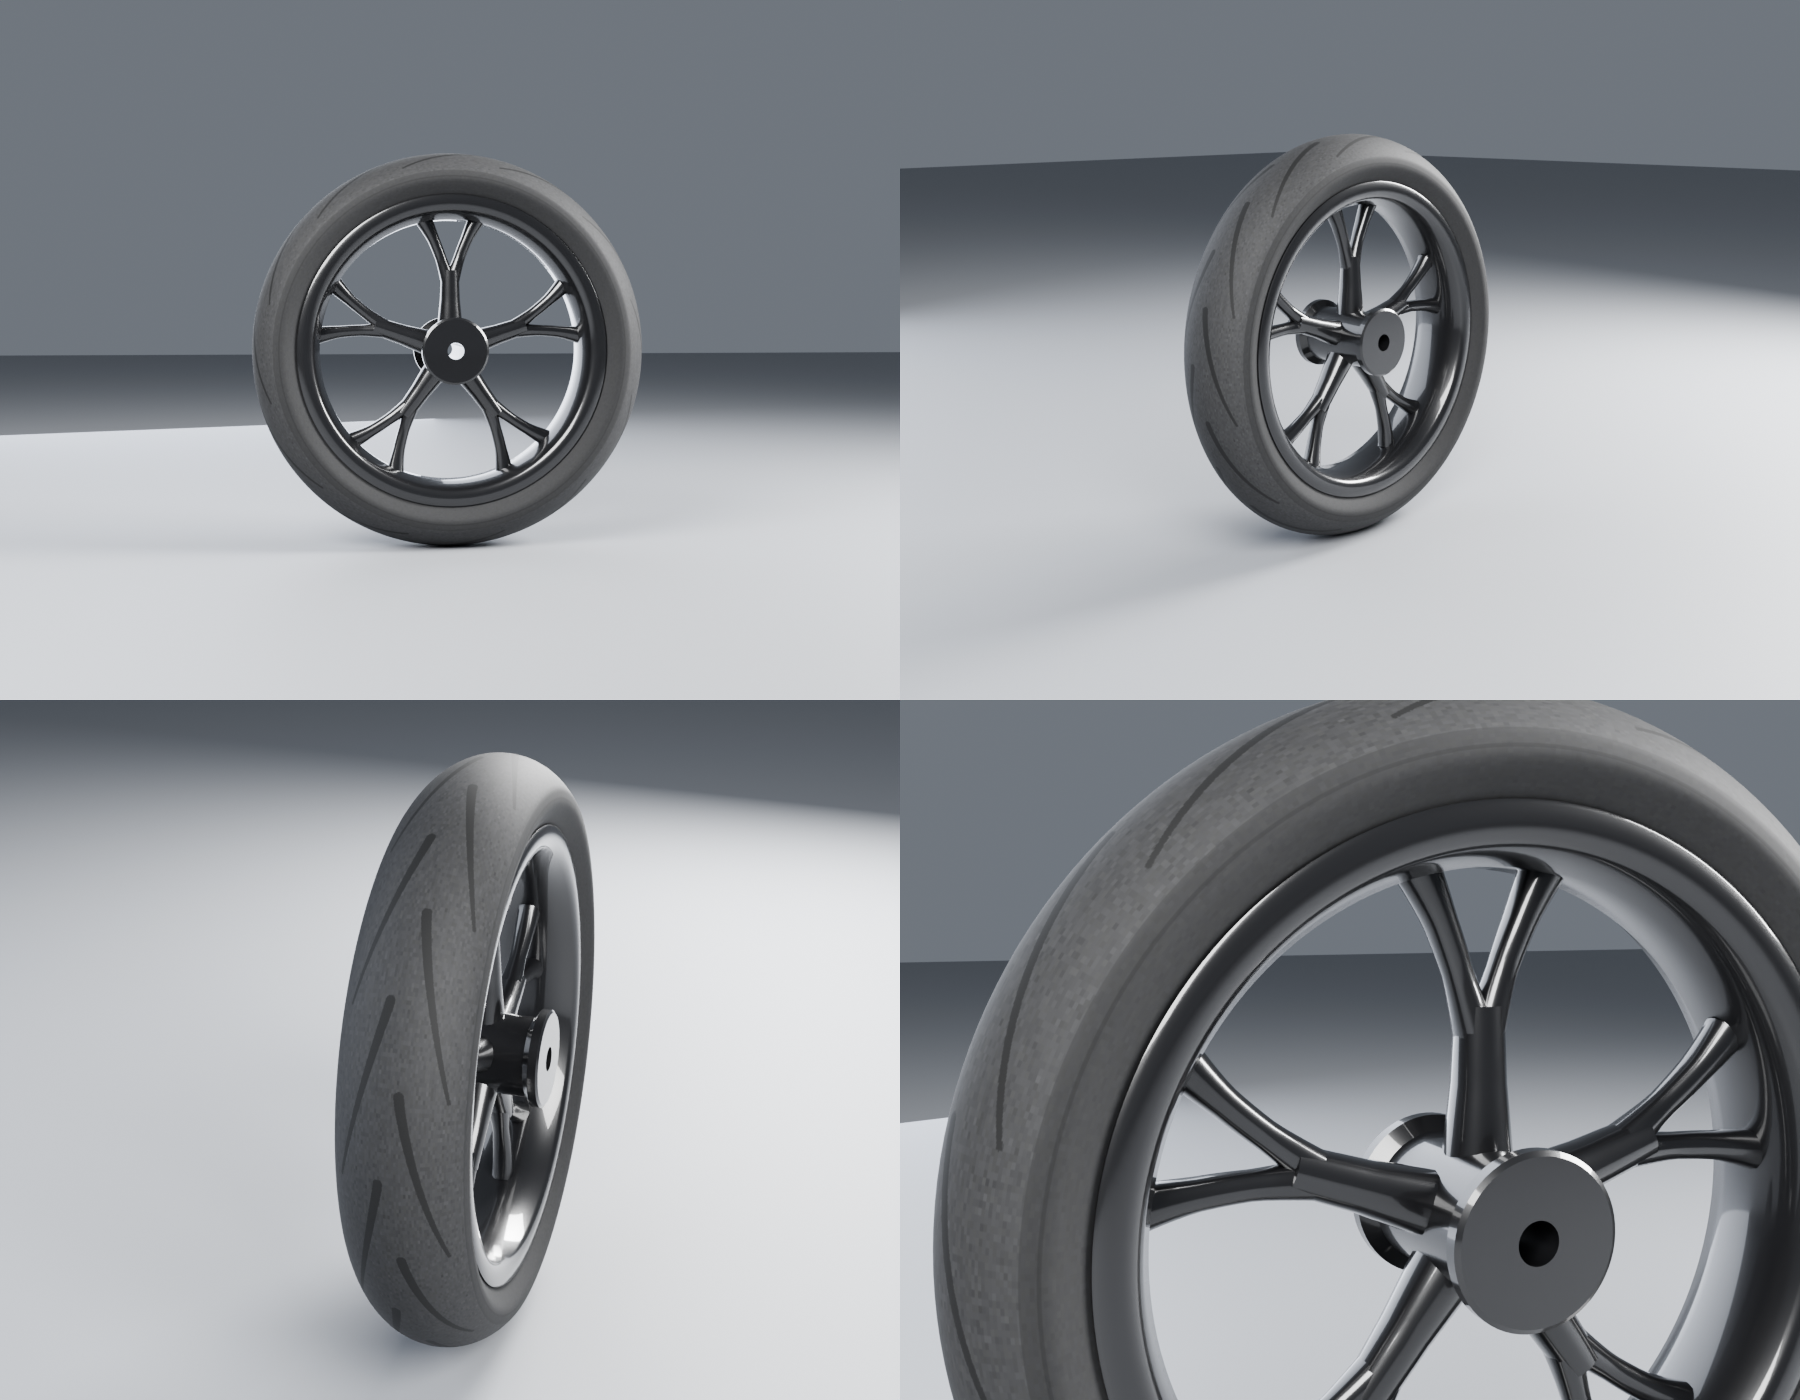
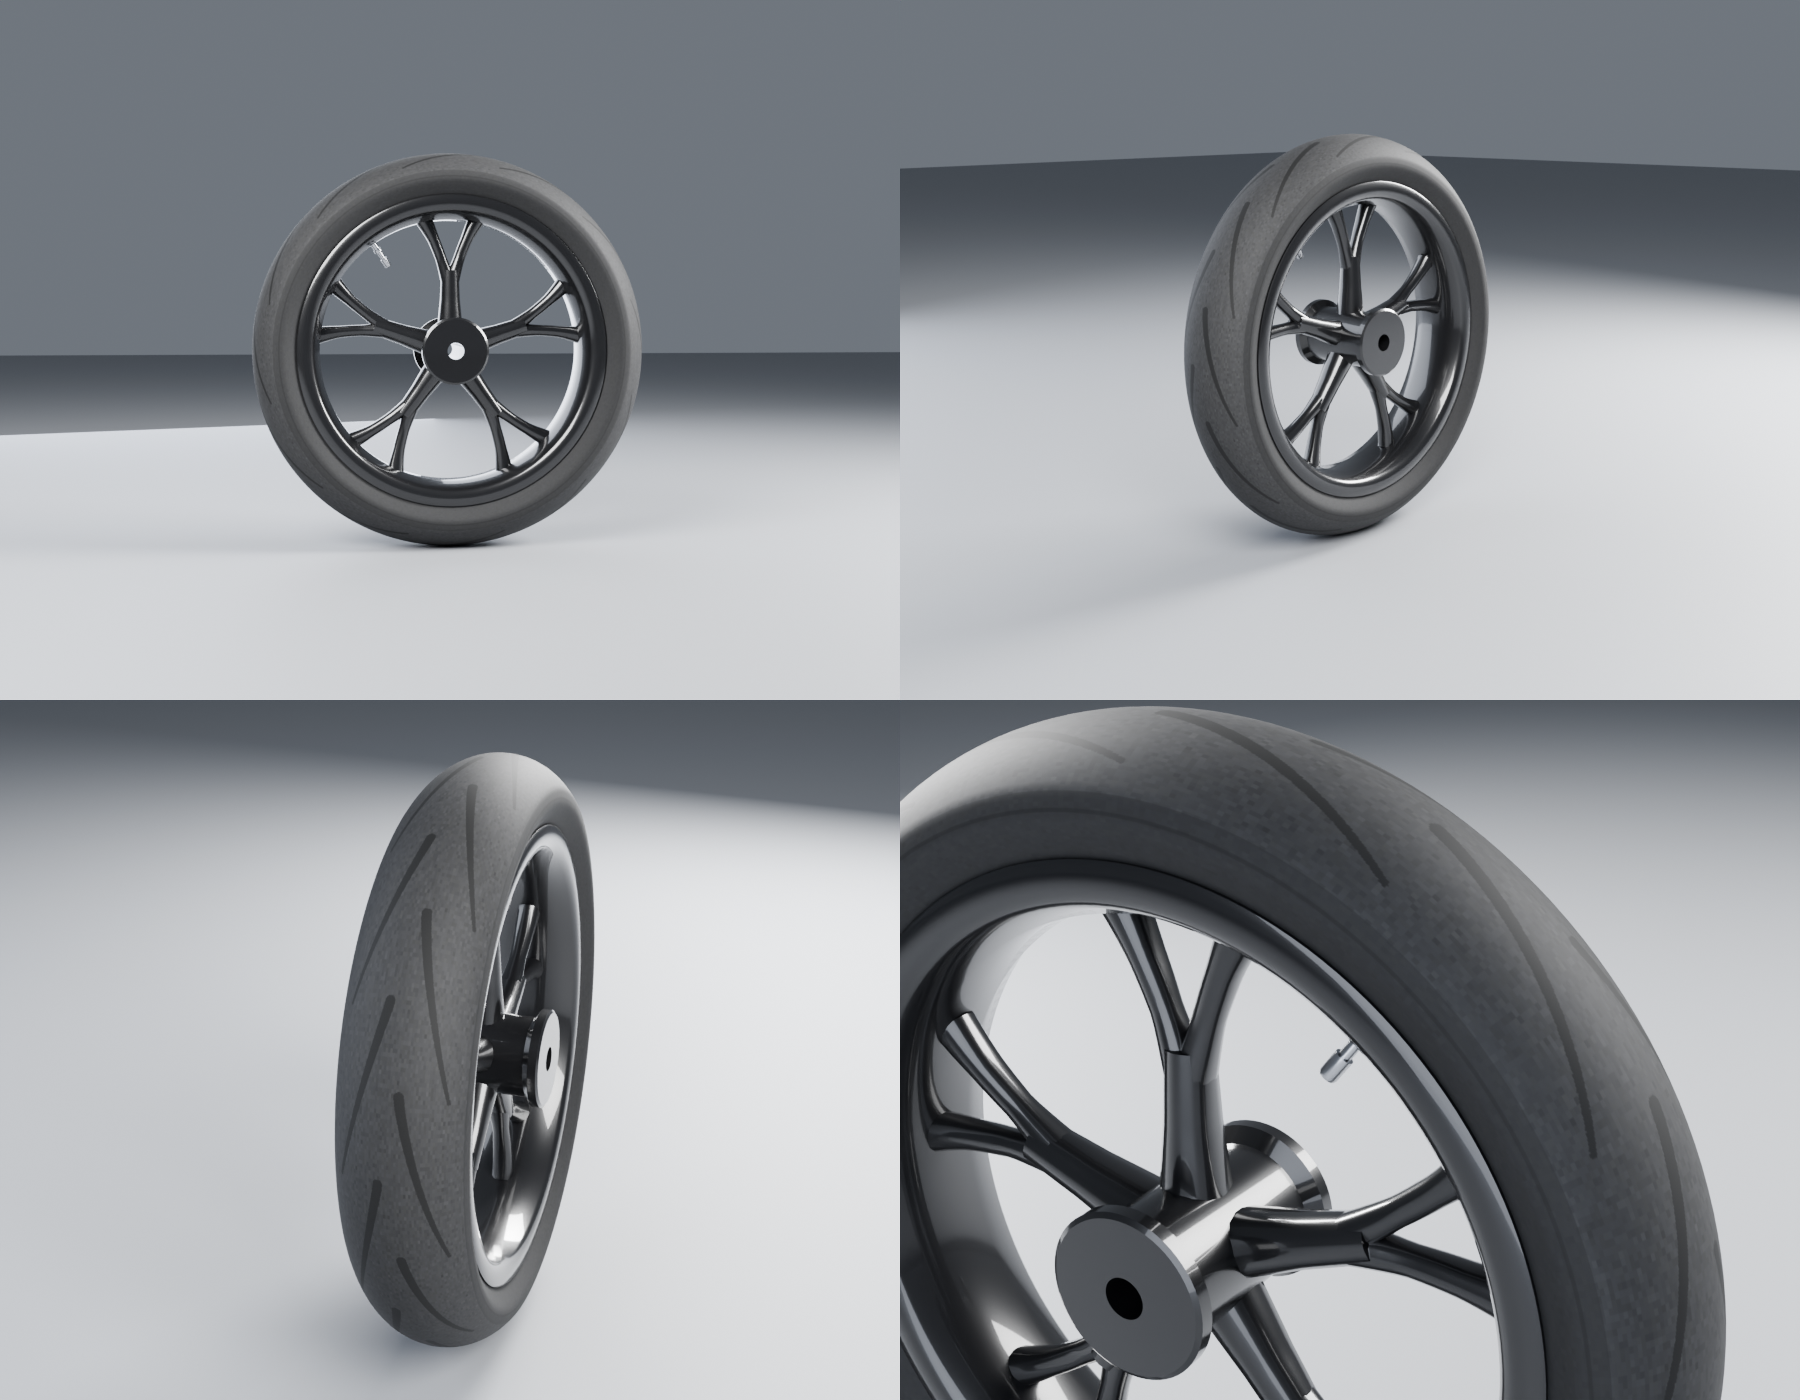
Superbike wheels: add tyre valve stems (re-uploaded)
Claude-Session: https://claude.ai/code/session_01Swm8qxa6zdsbSaM1gCHsEp

Changed region(s): [[0.4978, 0.4914, 1.0, 1.0]]

diff --git a/art/blender/superbike/wheels.py b/art/blender/superbike/wheels.py
@@ -223,6 +223,21 @@ def build_rim(name, rim_half, hub_prof, t_hub, t_rim):
     return G.join([barrel, hub] + spokes, name)
 
 
+def valve(ang=rad(126), tilt=rad(-14)):
+    """Tyre valve stem through the drop centre, between two spokes, cap pointing at the hub.
+    Tilted a little toward the bike's right (-X) so it can be seen from the side."""
+    prof = [(0.157, 0.0), (0.157, 0.0046), (0.1585, 0.0053), (0.1715, 0.0053), (0.1715, 0.0036), (0.1855, 0.0036),
+            (0.1855, 0.0064), (0.1895, 0.0064), (0.1895, 0.0046), (R17 - 0.010, 0.0046), (R17 - 0.010, 0.0)]
+    ob = G.lathe("Valve", prof, seg=20, uv=False)
+    from mathutils import Matrix
+    base_r = R17 - 0.0135                     # inside the drop-centre wall
+    radial = G.polar(1.0, ang)
+    d = (radial * math.cos(tilt) - Vector((math.sin(tilt), 0, 0))).normalized()   # cap leans to -X
+    q = d.to_track_quat('X', 'Z')
+    ob.data.transform(Matrix.Translation(G.polar(base_r, ang)) @ q.to_matrix().to_4x4() @ Matrix.Translation((-base_r, 0, 0)))
+    return ob
+
+
 def build_tyre(name, W, Ro, rim_half):
     prof, marks = tyre_profile(W, Ro, rim_half)
     ob = G.lathe(name, prof, seg=168, closed=False)
@@ -237,7 +252,7 @@ def front_wheel():
            (-0.050, 0.041), (-0.057, 0.050), (-0.0655, 0.050), (-0.0675, 0.047)]
     rim = build_rim("Rim", rim_half, hub, 0.042, 0.022)
     tyre, marks = build_tyre("Tyre", 0.120, 0.2999, rim_half)
-    obs = [tyre, rim]
+    obs = [tyre, rim, valve()]
     if BRAKES:
         for side in (1, -1):
             rotor, carrier = front_disc(side)
@@ -326,7 +341,7 @@ def rear_wheel():
     rim = build_rim("Rim", rim_half, hub, 0.052, 0.026)
     if not BRAKES:
         tyre, marks = build_tyre("Tyre", 0.190, 0.3204, rim_half)
-        return [tyre, rim], marks
+        return [tyre, rim, valve()], marks
     # cush-drive carrier on the left (+X), part of the rim colour
     cush = G.lathe("cush", [(0.055, 0.0135), (0.0835, 0.0135), (0.0835, 0.052), (0.0805, 0.0575), (0.074, 0.060),
                             (0.066, 0.060), (0.058, 0.054), (0.055, 0.050)], seg=72, uv=False)
@@ -336,7 +351,7 @@ def rear_wheel():
     rotor = rear_disc(xd)
     cal = rear_caliper(xd, -1)
     spr, Rp = sprocket(0.085)
-    return [tyre, rim, rotor, cal, spr], marks
+    return [tyre, rim, valve(), rotor, cal, spr], marks
 
 
 # ------------------------------------------------------------------ textures (procedural, no text anywhere)
@@ -412,6 +427,7 @@ def save_png(path, rgb):
 LOOKS = {
     "Tyre": {"tex": "Tyre", "rough": 0.72, "metal": 0.0, "roblox": {"Color": [255, 255, 255], "Material": "SmoothPlastic"}},
     "Rim": {"color": (0.010, 0.010, 0.011), "rough": 0.3, "metal": 0.0, "coat": 1.0, "roblox": {"Color": [24, 24, 26], "Material": "SmoothPlastic", "Reflectance": 0.06}},
+    "Valve": {"color": (0.55, 0.56, 0.58), "rough": 0.25, "metal": 1.0, "roblox": {"Color": [168, 170, 176], "Material": "SmoothPlastic", "Reflectance": 0.2}},
     "Rotor": {"tex": "Rotor", "rough": 0.32, "metal": 1.0, "roblox": {"Color": [255, 255, 255], "Material": "SmoothPlastic", "Reflectance": 0.12}},
     "Carrier": {"color": (0.06, 0.062, 0.066), "rough": 0.4, "metal": 1.0, "roblox": {"Color": [62, 64, 68], "Material": "SmoothPlastic", "Reflectance": 0.08}},
     "Caliper": {"color": (0.02, 0.09, 0.42), "rough": 0.3, "metal": 0.6, "roblox": {"Color": [32, 74, 168], "Material": "SmoothPlastic", "Reflectance": 0.05}},

diff --git a/art/blender/superbike/render.py b/art/blender/superbike/render.py
@@ -71,7 +71,7 @@ def main(key):
     tmp = os.path.join(folder, "_r")
     os.makedirs(tmp, exist_ok=True)
     shots = [("side", (1.9, -0.25, 0.05), (0, 0, 0), 50), ("q34", (1.25, -1.35, 0.35), (0, 0, -0.02), 50),
-             ("tread", (0.35, -1.25, 0.55), (0, -0.12, 0.05), 55), ("close", (0.62, -0.35, 0.18), (0.0, -0.08, 0.10), 50)]
+             ("tread", (0.35, -1.25, 0.55), (0, -0.12, 0.05), 55), ("close", (-0.55, -0.42, 0.40), (0.0, -0.10, 0.14), 55)]
     paths = []
     for tag, loc, tgt, lens in shots:
         p = os.path.join(tmp, f"{tag}.png")
